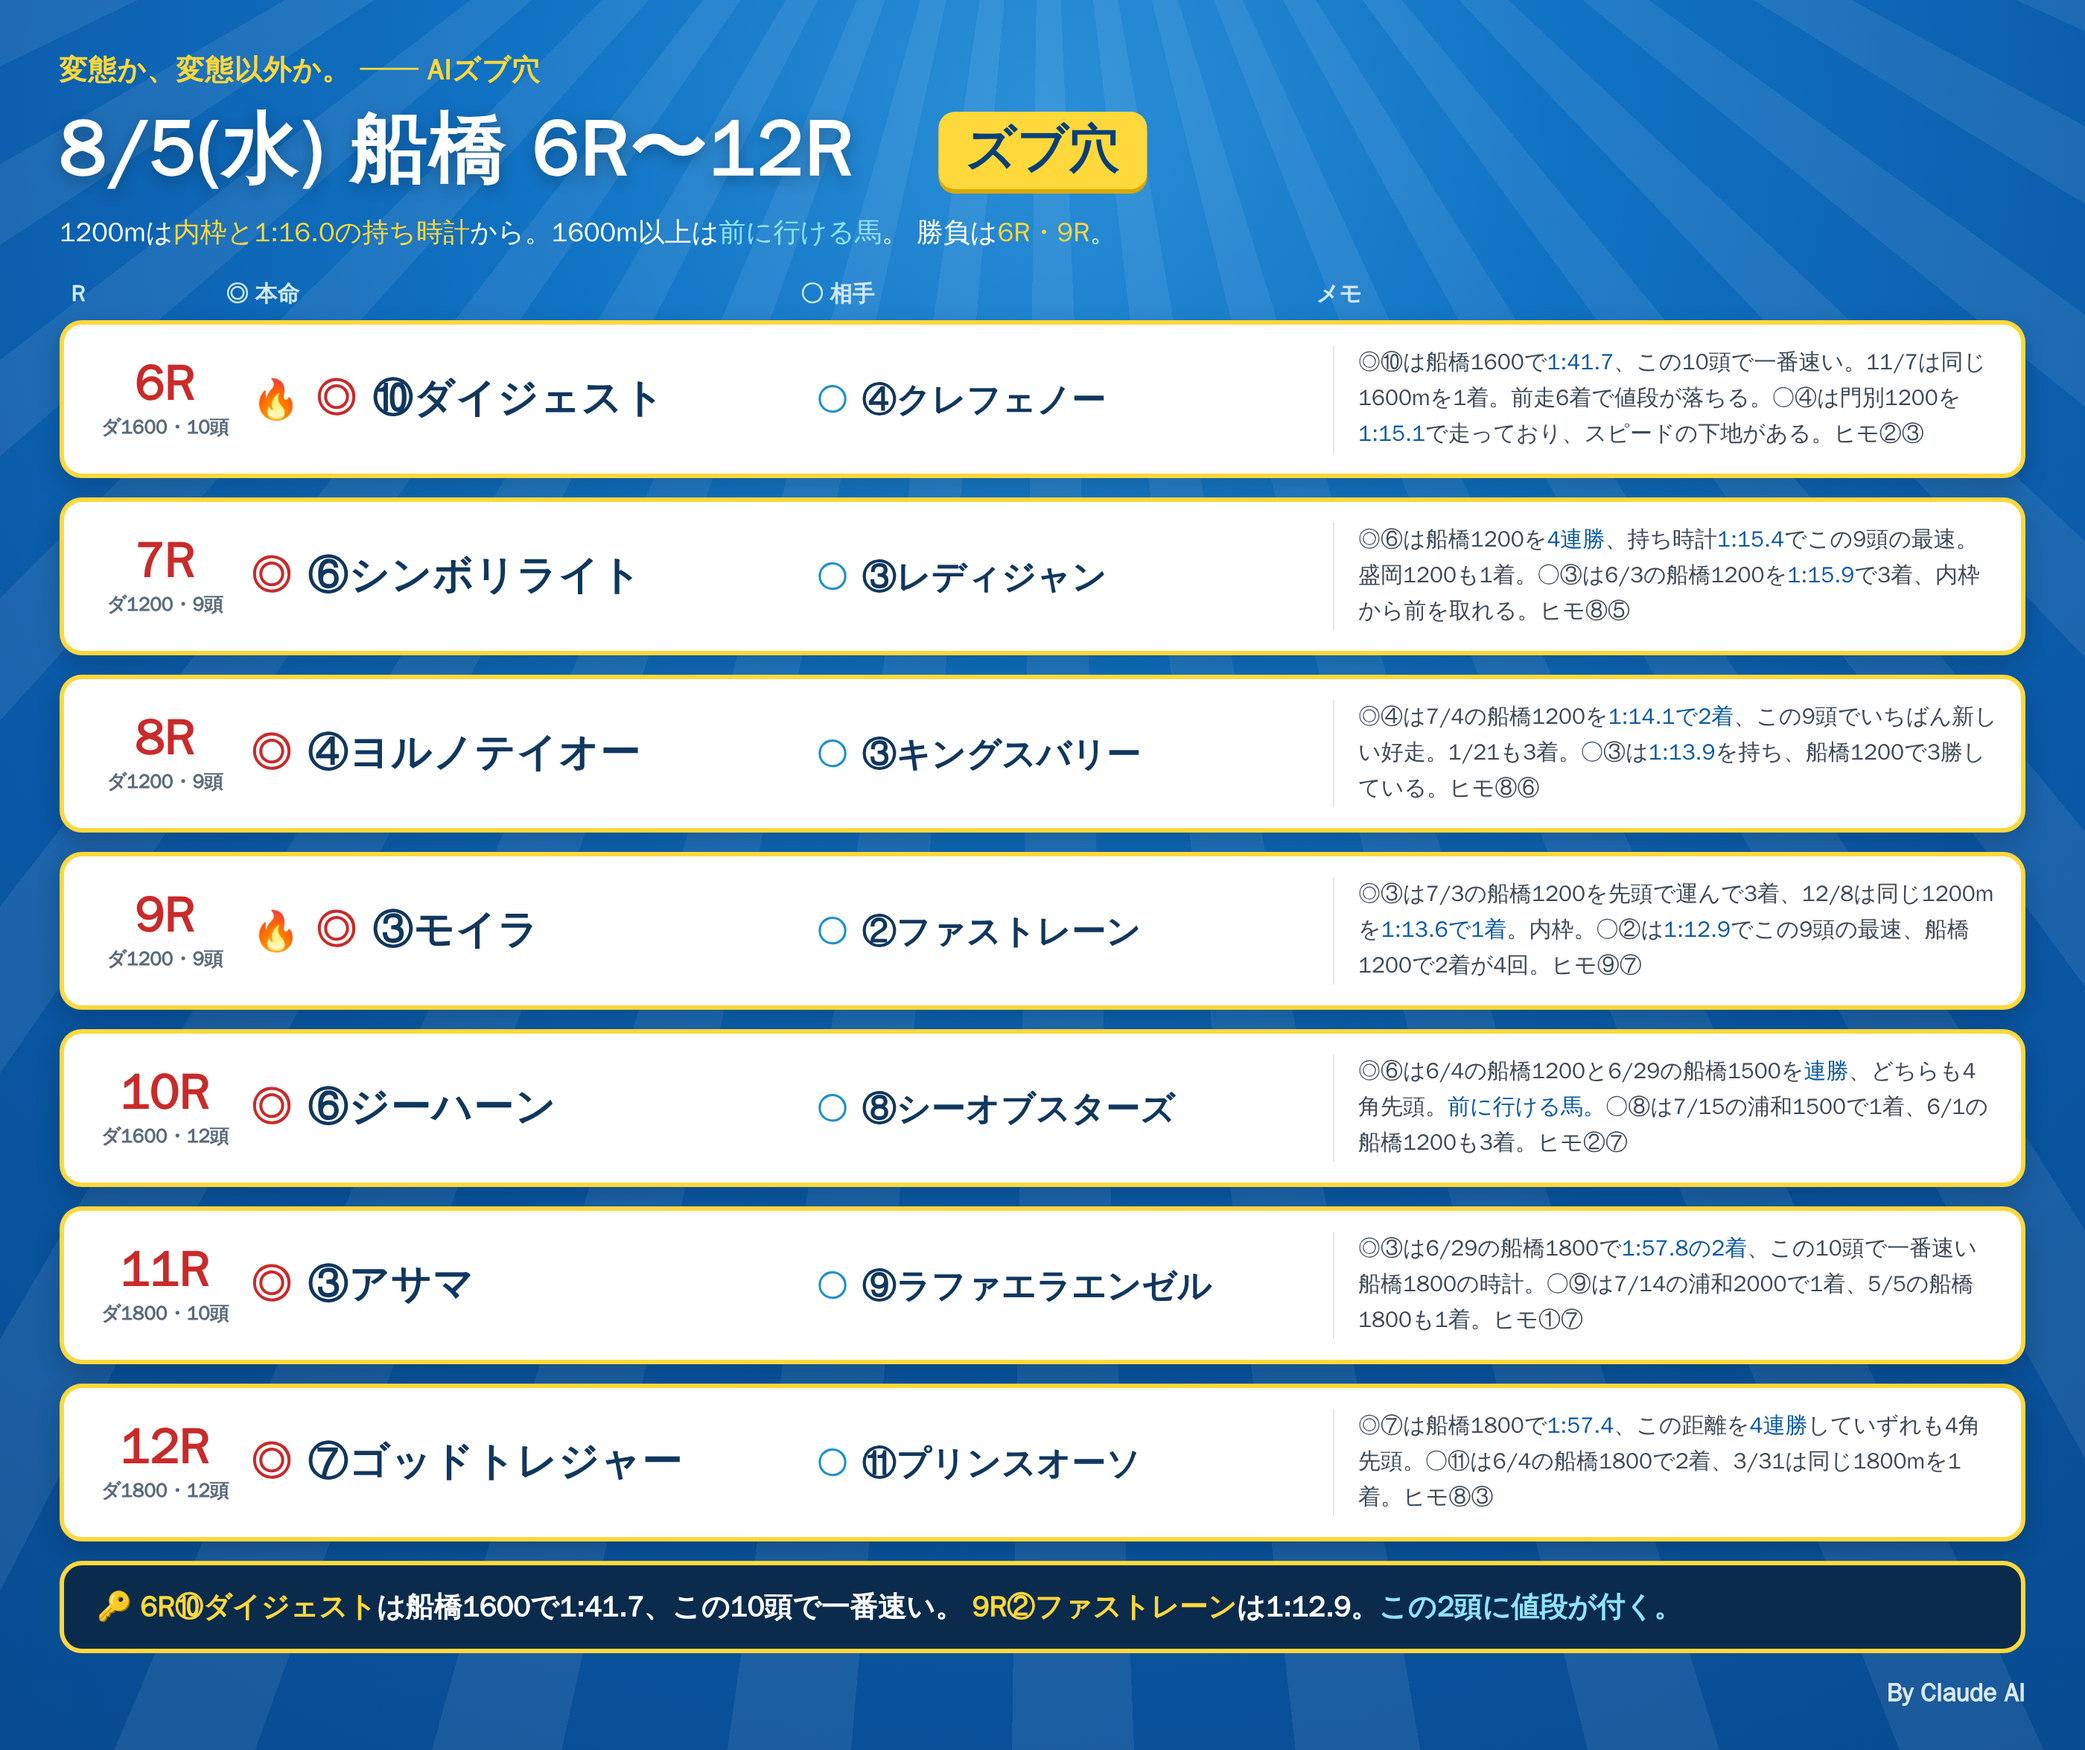
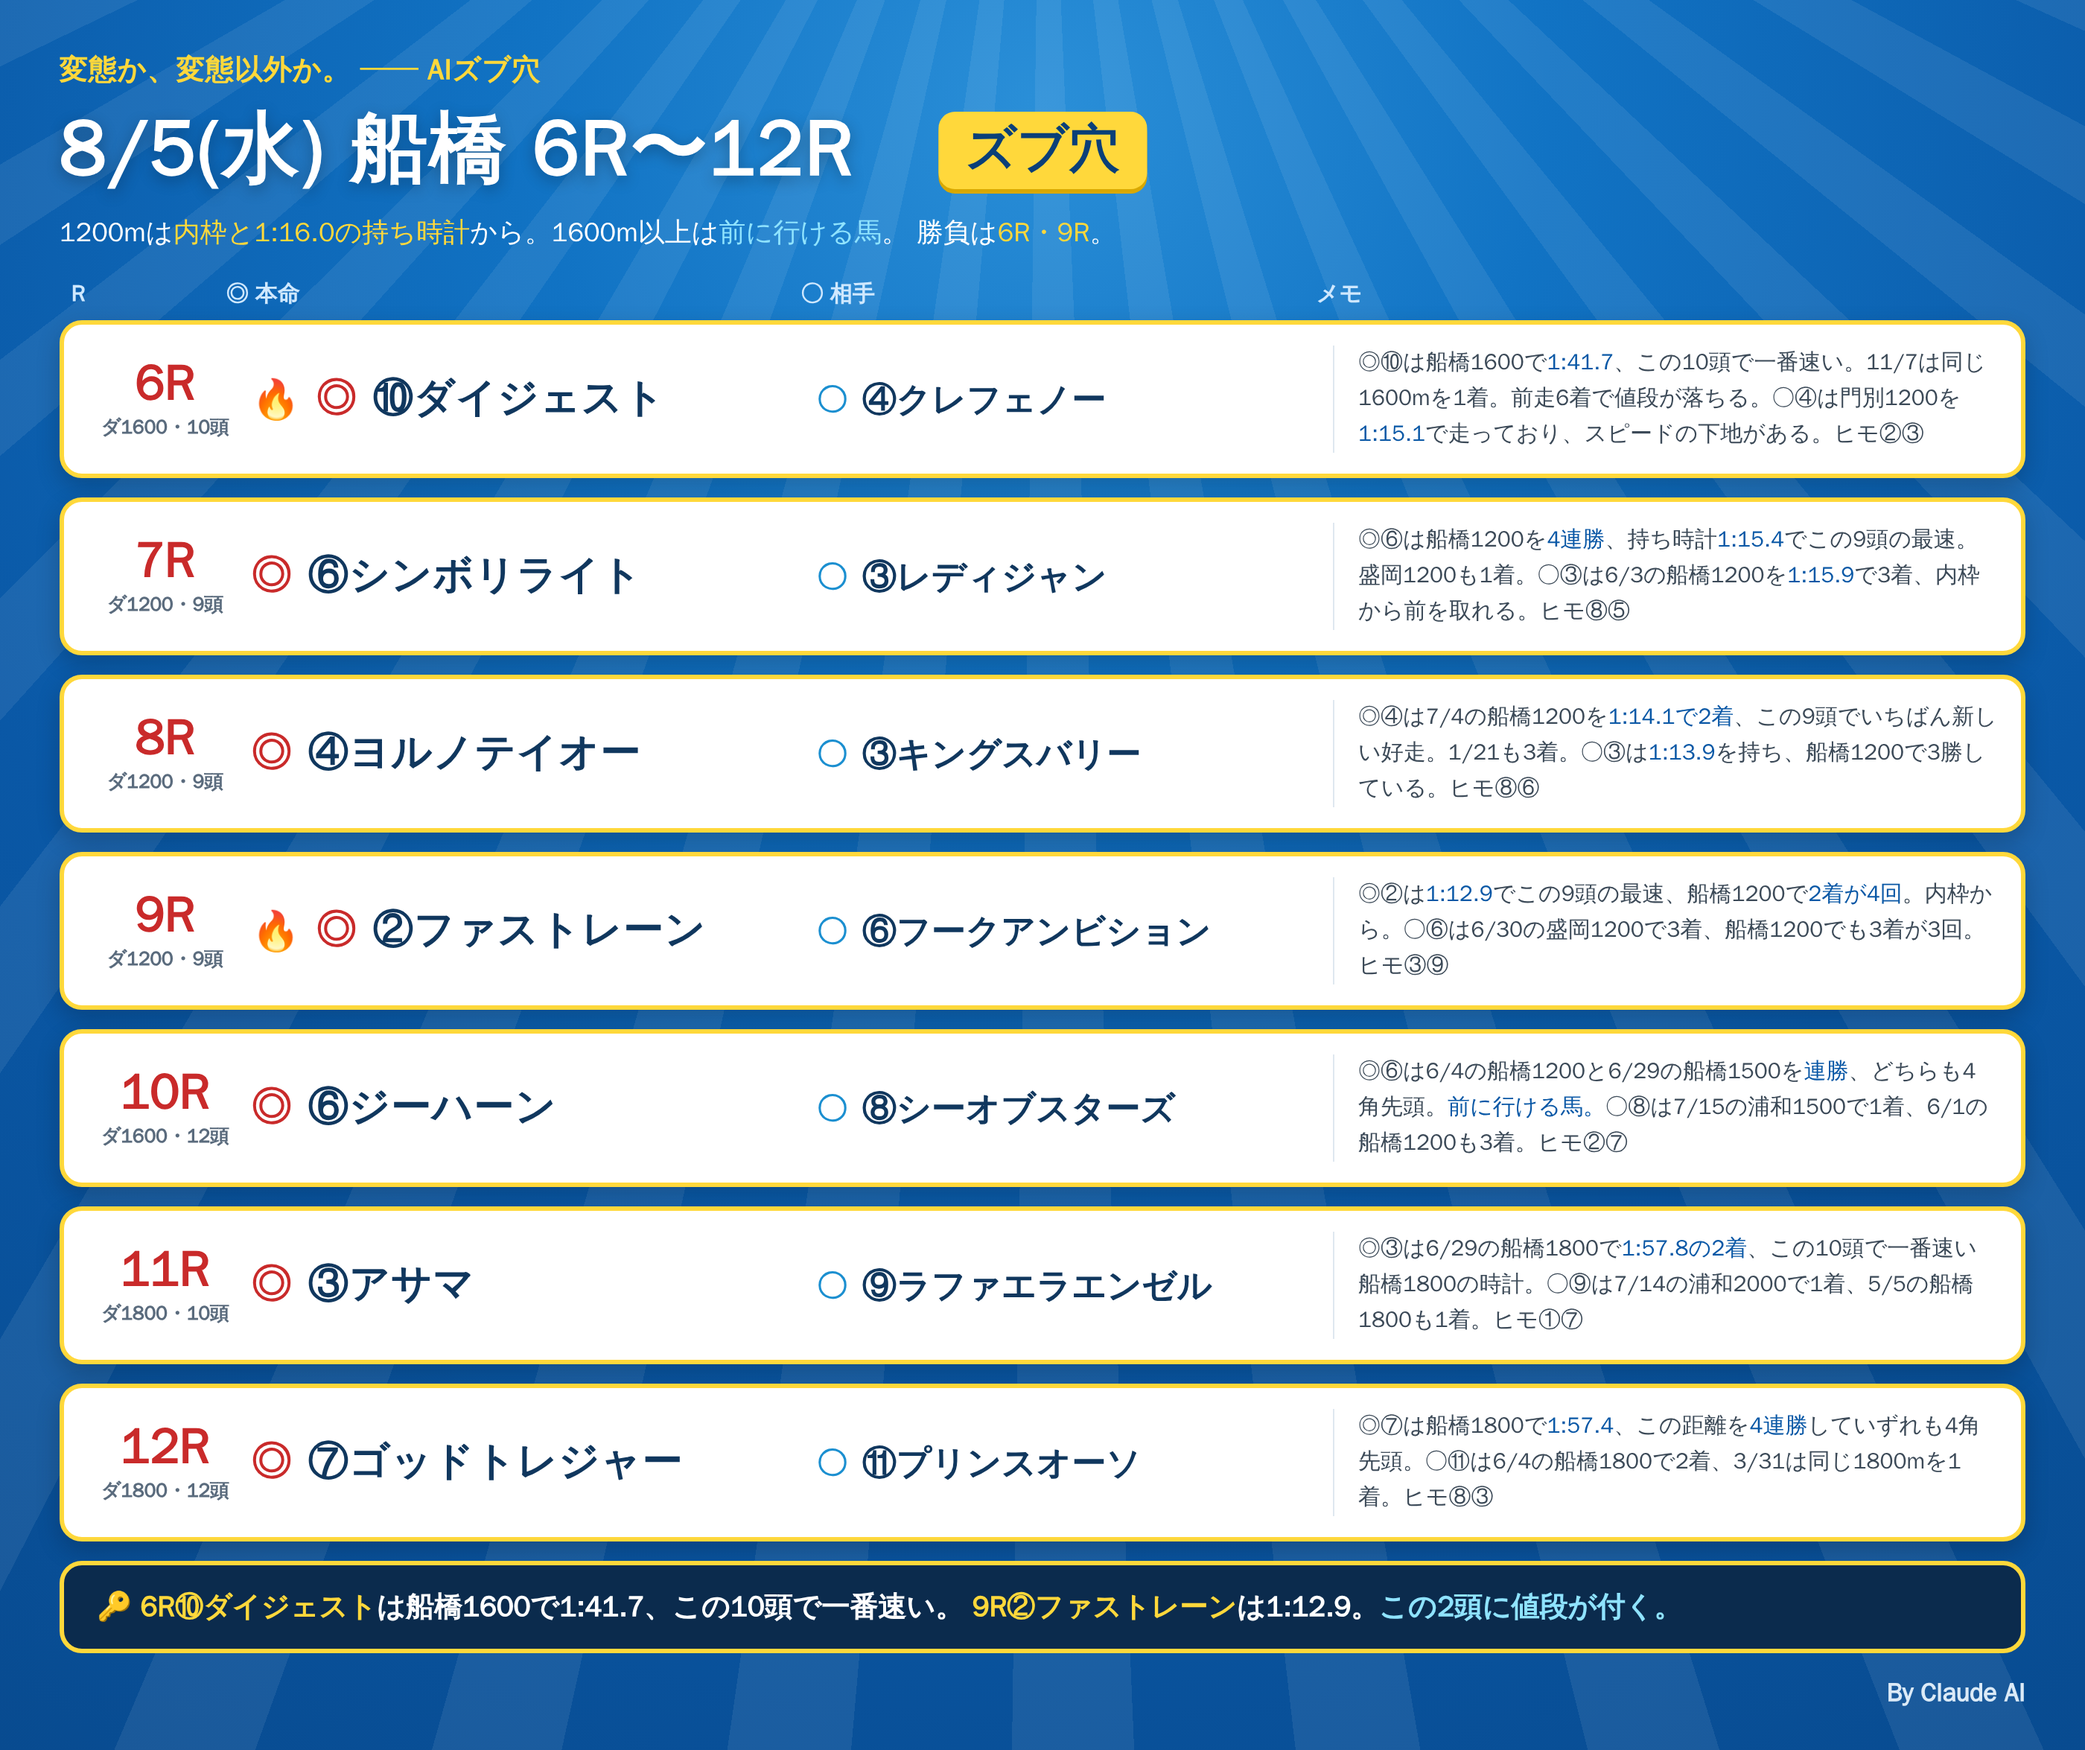
notes: 9R marks to 2 and 6
Claude-Session: https://claude.ai/code/session_01RoHscZkr96FNaxQWvUqgEw

Changed region(s): [[0.6525, 0.497, 0.9632, 0.5591], [0.1864, 0.5281, 0.3107, 0.5591], [0.4661, 0.5281, 0.5593, 0.5591]]

diff --git a/notes/live/2026-08-05/funabashi_6_12.html b/notes/live/2026-08-05/funabashi_6_12.html
@@ -76,9 +76,9 @@
 
   <div class="row">
     <div class="rN"><div class="n">9R</div><div class="d">ダ1200・9頭</div></div>
-    <div class="hm"><span class="fire">🔥</span><span class="mk">◎</span><span class="nm">③モイラ</span></div>
-    <div class="at"><span class="mk2">○</span><span class="nm2">②ファストレーン</span></div>
-    <div class="memo">◎③は7/3の船橋1200を先頭で運んで3着、12/8は同じ1200mを<b>1:13.6で1着</b>。内枠。○②は<b>1:12.9</b>でこの9頭の最速、船橋1200で2着が4回。ヒモ⑨⑦</div>
+    <div class="hm"><span class="fire">🔥</span><span class="mk">◎</span><span class="nm">②ファストレーン</span></div>
+    <div class="at"><span class="mk2">○</span><span class="nm2">⑥フークアンビション</span></div>
+    <div class="memo">◎②は<b>1:12.9</b>でこの9頭の最速、船橋1200で<b>2着が4回</b>。内枠から。○⑥は6/30の盛岡1200で3着、船橋1200でも3着が3回。ヒモ③⑨</div>
   </div>
 
   <div class="row">
